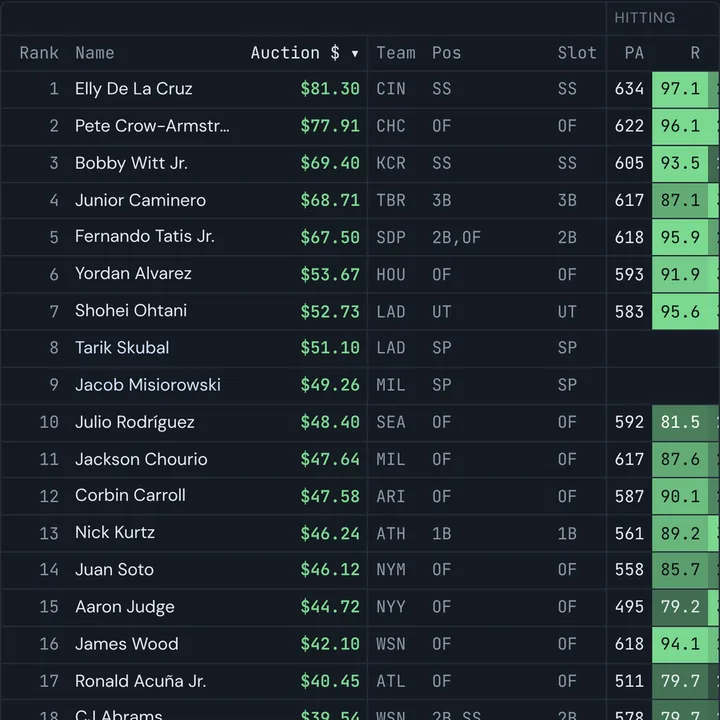
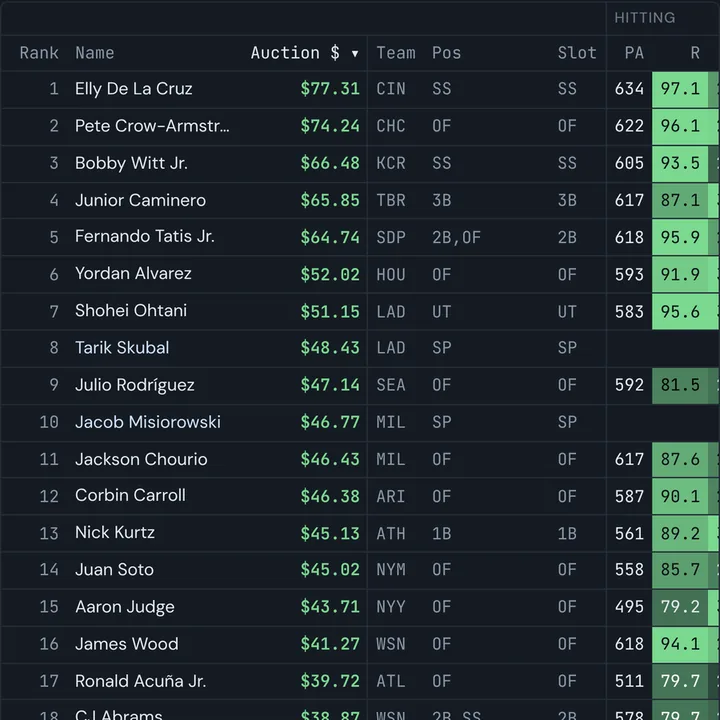
Auction calculator: default the dollar curve to γ = 1.05
A milder default: the top player about 5% over a straight line (Elly
De La Cruz $73.41 to $77.31 in the default league) instead of 11%. The
README's example and the homepage tile follow.

Claude-Session: https://claude.ai/code/session_01AWedwNEJvEtBDjmJaVtJCN

diff --git a/auction-calculator/index.html b/auction-calculator/index.html
@@ -245,7 +245,7 @@ table.values{border-collapse:separate; border-spacing:0; width:100%; font-family
       <details class="adv" id="adv">
         <summary>Valuation details</summary>
         <label class="block"><span class="lab"><b>Replacement span</b><button type="button" class="tip" data-tip="Players either side of each position's cutoff averaged into its replacement level; 0 is the last starter alone">i</button></span><input id="span" type="number" min="0" max="10" step="1" value="3" required></label>
-        <label class="block"><span class="lab"><b>Dollar curve</b><button type="button" class="tip" data-tip="How fast dollars rise with value. 1 is a straight line: each SGP above a side's last drafted player is worth the same. Above 1, stars cost more than a straight line gives them and the middle rounds less; the last drafted player still gets the min bid">i</button></span><input id="curve" type="number" min="1" max="2" step="0.05" value="1.1" required></label>
+        <label class="block"><span class="lab"><b>Dollar curve</b><button type="button" class="tip" data-tip="How fast dollars rise with value. 1 is a straight line: each SGP above a side's last drafted player is worth the same. Above 1, stars cost more than a straight line gives them and the middle rounds less; the last drafted player still gets the min bid">i</button></span><input id="curve" type="number" min="1" max="2" step="0.05" value="1.05" required></label>
         <label class="check"><input id="fill_pt" type="checkbox" checked><span>Fill missing playing time</span><button type="button" class="tip" data-tip="What a player doesn't play, his team fills with replacement production for his role">i</button></label>
         <label class="check" id="spec_field"><input id="specialists" type="checkbox" checked><span>Specialist correction</span><button type="button" class="tip" data-tip="Roto: a category far above replacement buys standings points on a curve, not a line">i</button></label>
         <div class="pair">

diff --git a/index.html b/index.html
@@ -162,7 +162,7 @@
 								</article>
 									<article class="style4">
 									<span class="image">
-										<img src="images/tile-auction-calculator.webp?v=6" srcset="images/tile-auction-calculator-720.webp?v=6 720w, images/tile-auction-calculator.webp?v=6 900w" sizes="(max-width: 480px) 100vw, (max-width: 980px) 50vw, 380px" width="900" height="900" alt="SGP auction values for a 12-team Yahoo-format 5x5 league at a 65/35 hitter split, Elly De La Cruz first at $81.30" />
+										<img src="images/tile-auction-calculator.webp?v=7" srcset="images/tile-auction-calculator-720.webp?v=7 720w, images/tile-auction-calculator.webp?v=7 900w" sizes="(max-width: 480px) 100vw, (max-width: 980px) 50vw, 380px" width="900" height="900" alt="SGP auction values for a 12-team Yahoo-format 5x5 league at a 65/35 hitter split, Elly De La Cruz first at $77.31" />
 									</span>
 									<a href="/auction-calculator/">
 										<h2>MLB Auction Calculator</h2>

diff --git a/README.md b/README.md
@@ -1082,17 +1082,17 @@ his SGP above the side's last drafted player and `k` is set so the side spends e
 So exactly the drafted players are at the min bid or more, together they cost `teams × budget` (less
 `teams × bench × min bid` for a minimized bench), and the hitters get exactly their share of the
 dollars above the min bids. With γ = 1 the curve is a straight line, one price per SGP; the
-research handoff's mildly convex curve is the default, γ = 1.1, where stars cost more than a
-straight line gives them (the top player about 11% more) and the middle rounds a little less. It
+research handoff's mildly convex curve is the default, γ = 1.05, where stars cost more than a
+straight line gives them (the top player about 5% more) and the middle rounds a little less. It
 keeps the player order, and the last drafted player on each side still gets the min bid. **From the
 values** puts both sides on one curve instead, so the split is the values' own. A player no legal
 roster has room for (a 13th catcher when nothing else takes him, say) stays under the min bid; a
 player below the last drafted one is priced at his side's average dollars per SGP, since the curve
 starts at him. On the 2027 projections (as of October 11) the Yahoo format (bench minimized)
 prices its 216 lineup players for $3,060 (12 × $260, less 60 bench spots at $1). At the default
-65/35 and γ = 1.1, Elly De La Cruz is first at $81.30 ($73.41 on a straight line) and Tarik Skubal
-the first pitcher at $51.10, at an average $13.88 per SGP for hitters and $7.19 for pitchers. The
-values make it 49/51 (Skubal first at $74.36); without the playing time fill, 60/40. The fill moves value to part-timers with good
+65/35 and γ = 1.05, Elly De La Cruz is first at $77.31 ($73.41 on a straight line) and Tarik Skubal
+the first pitcher at $48.43, at an average $13.88 per SGP for hitters and $7.19 for pitchers. The
+values make it 49/51 (Skubal first at $70.27); without the playing time fill, 60/40. The fill moves value to part-timers with good
 rates (Byron Buxton, Luis Robert Jr., closers) and away from full-time players near replacement
 rates (Bo Bichette, Luis Arraez, back-end starters).
 
@@ -1139,7 +1139,7 @@ count assumed.
 
 Not done from the procedure: the draft-state weights (Task 12, re-weighting categories for one
 team during a live draft), risk as an option value, and the history check against real standings
-(Task 13.4). The dollar curve's γ = 1.1 is the handoff's "mildly convex", not fit to auction
+(Task 13.4). The dollar curve's γ = 1.05 is the handoff's "mildly convex", not fit to auction
 prices. The method is checked by simulation only, not against real
 league standings.
 
